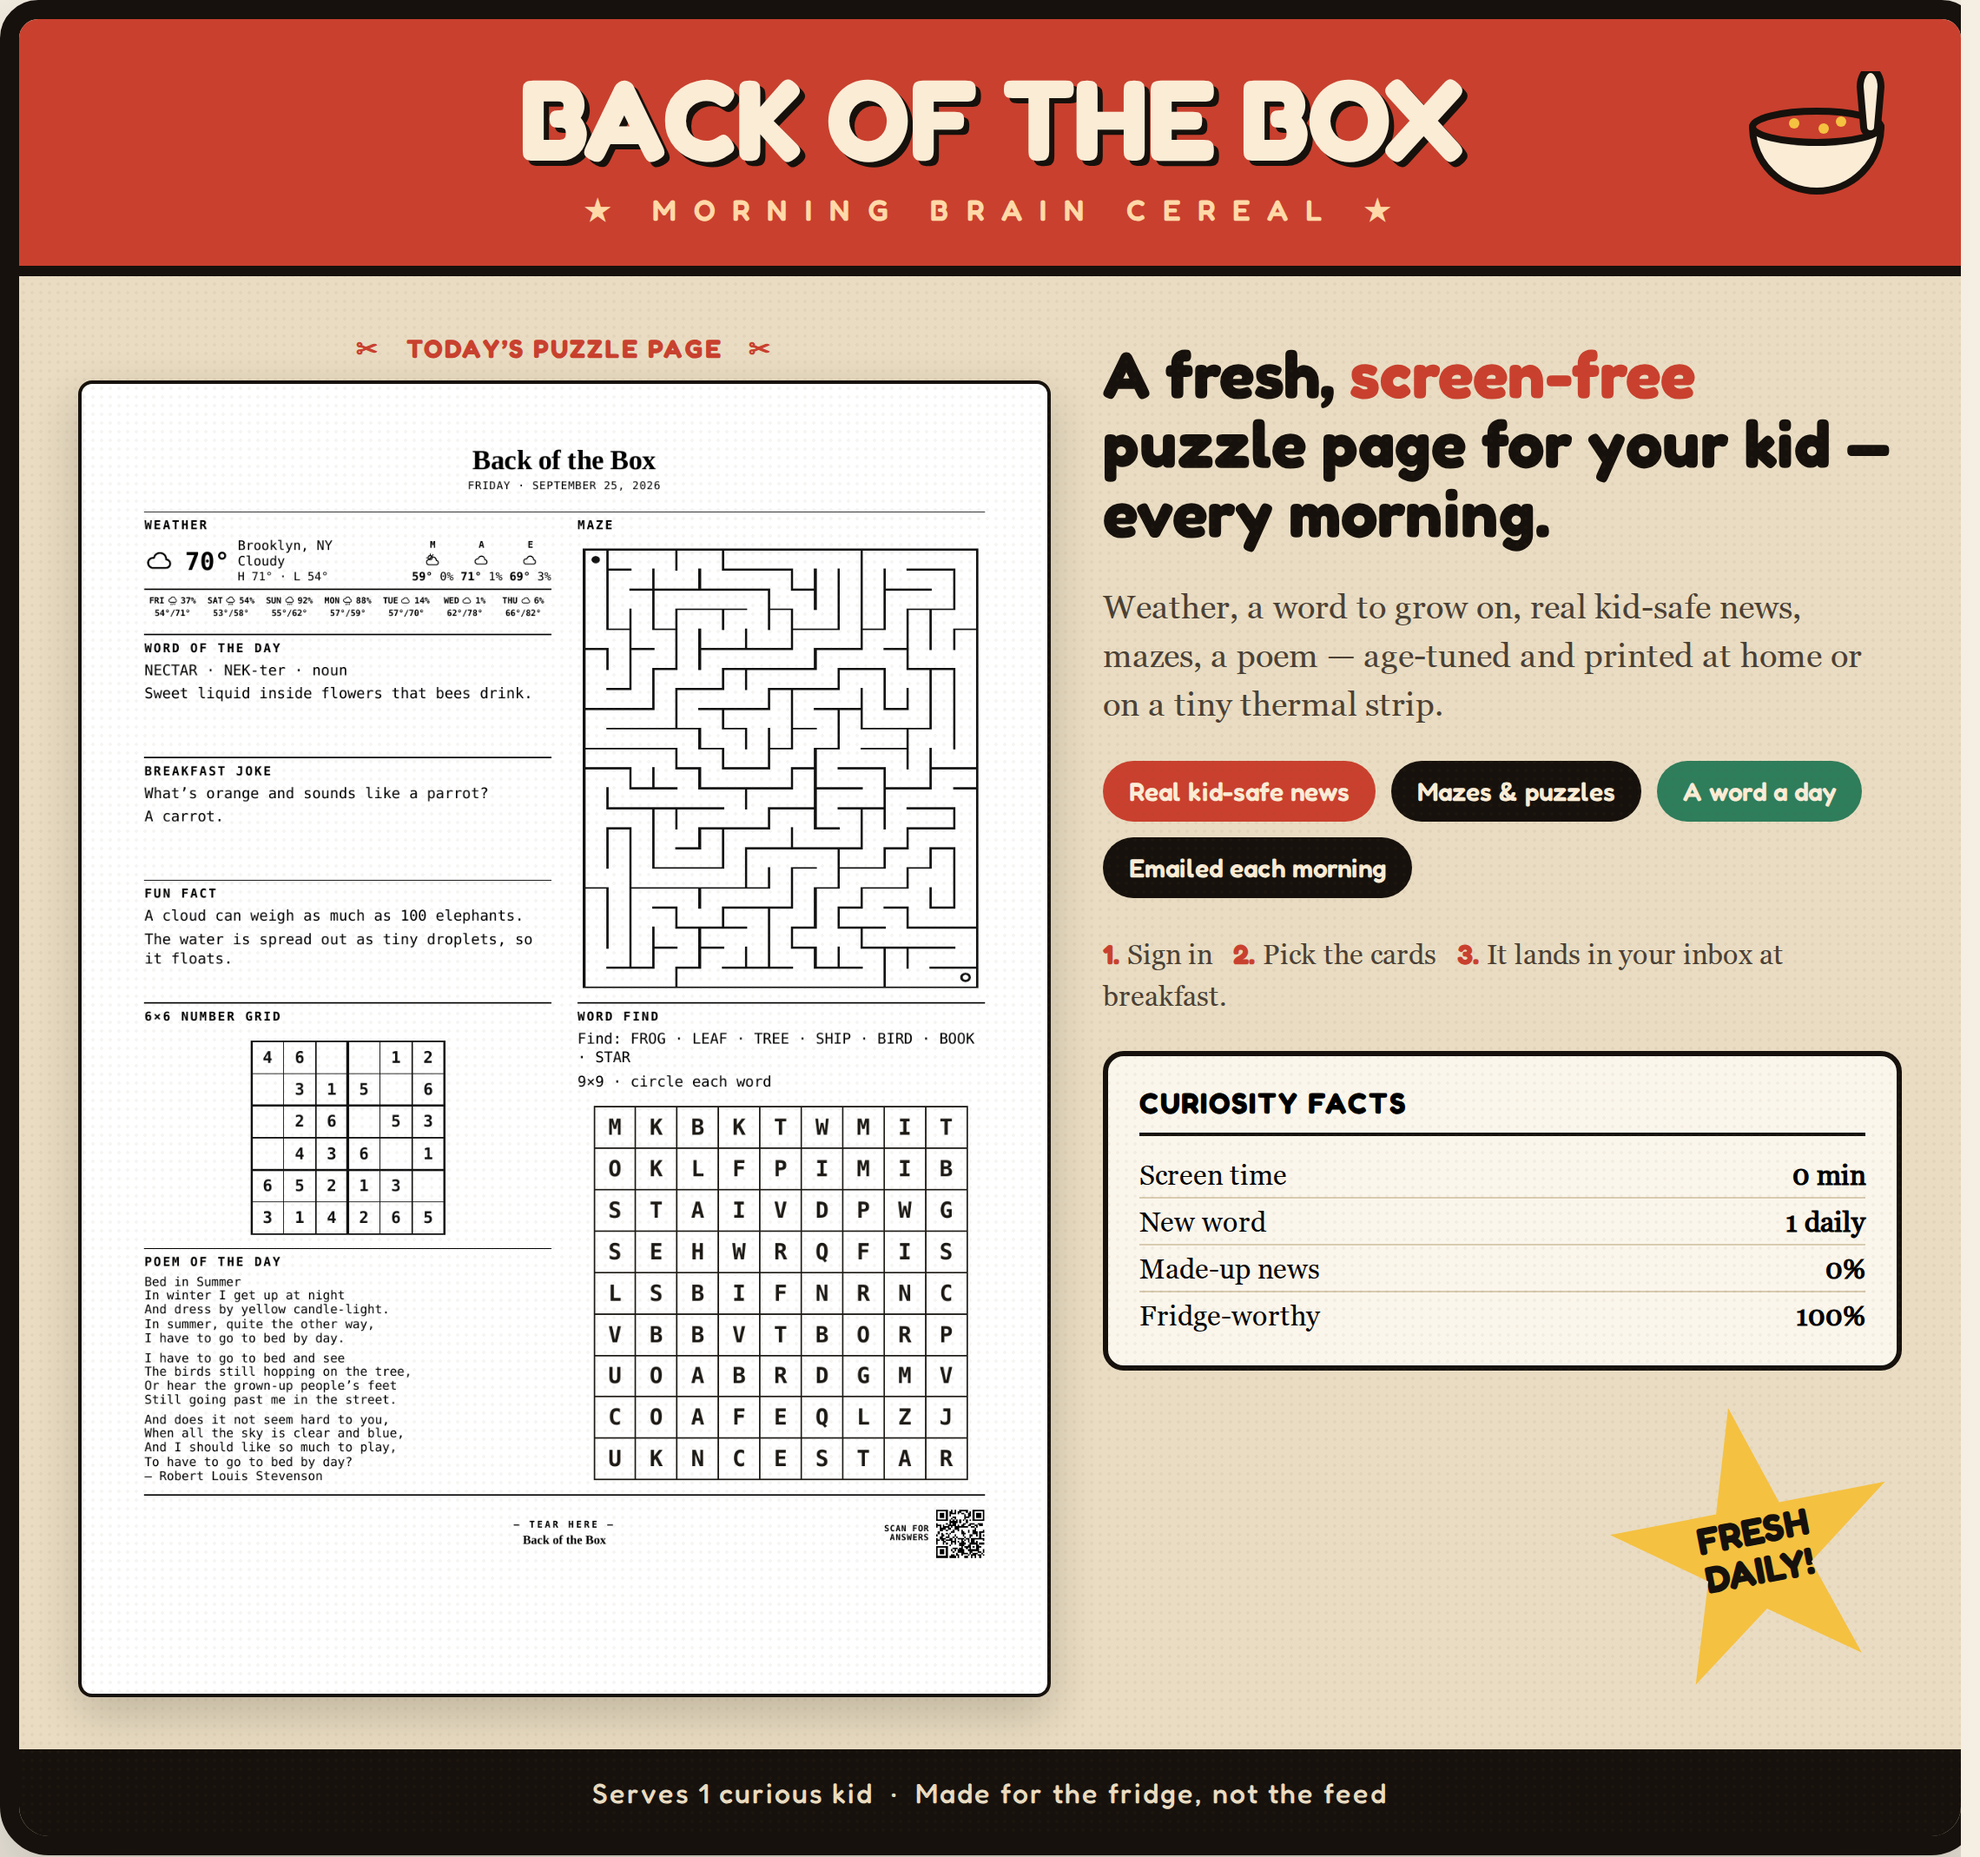
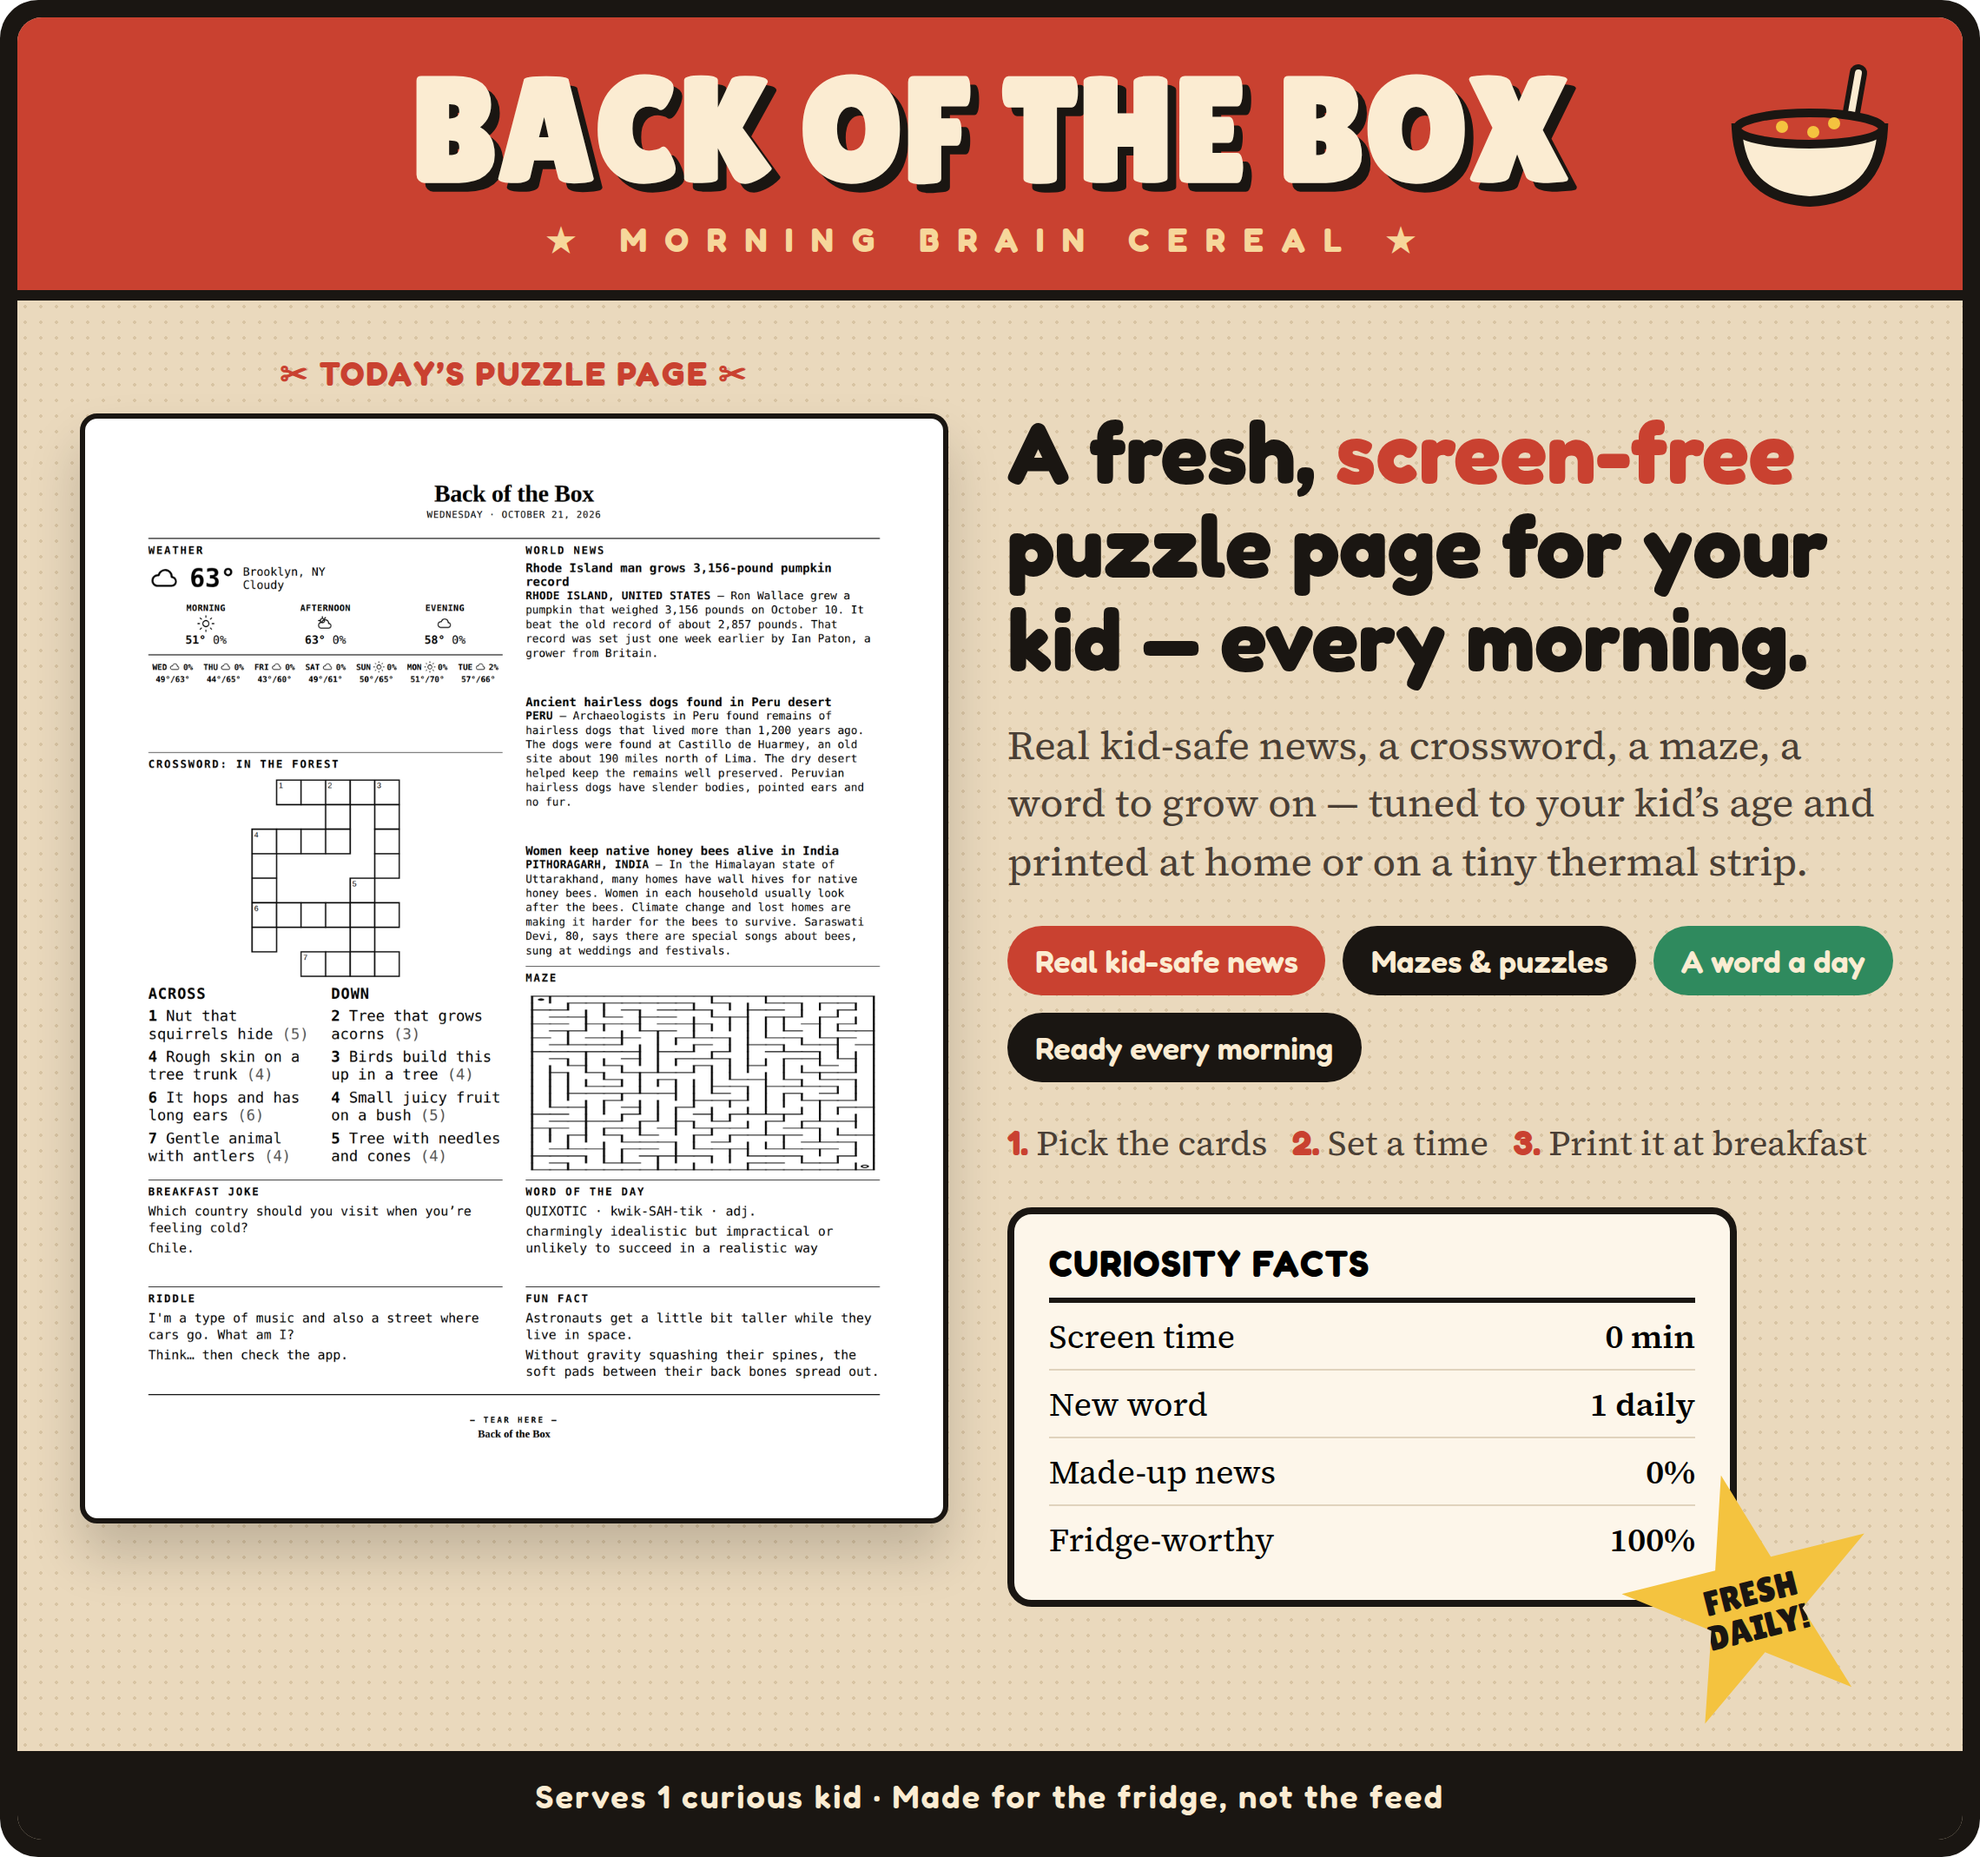
fix(mobile): dashboard button in home header, no horizontal overflow, refreshed hero
- Home header: signed-in users get a Dashboard button on every screen size;
  signed-out mobile shows Sign in + Demo
- Home hero/sample grids and the edit-dispatch form no longer overflow at 390px
- Cereal-box hero rebuilt from today's real page with current copy
  (pick cards, set a time, print — no 'sign in' step, not email-only)
- 'up to eight cards' claim corrected (cards come in three sizes)

diff --git a/src/app/page.tsx b/src/app/page.tsx
@@ -1,5 +1,5 @@
 import Link from "next/link";
-import { AuthButton } from "@/components/AuthButton";
+import { HomeHeaderActions } from "@/components/HomeHeaderActions";
 import { MODULE_CATALOG, MODULE_CATEGORIES } from "@/lib/modules";
 import { getHiddenModules } from "@/lib/visibility";
 
@@ -71,25 +71,11 @@ export default async function HomePage() {
           </span>
           <span className="masthead-display whitespace-nowrap text-lg sm:text-xl">Back of the Box</span>
         </Link>
-        <div className="flex shrink-0 items-center gap-3">
-          <Link
-            href="/modules"
-            className="hidden whitespace-nowrap text-sm font-semibold text-ink-soft hover:text-ink sm:inline"
-          >
-            Modules
-          </Link>
-          <AuthButton compact />
-          <Link
-            href="/app"
-            className="hidden whitespace-nowrap text-sm font-semibold text-ink-soft hover:text-ink sm:inline"
-          >
-            Open dashboard →
-          </Link>
-        </div>
+        <HomeHeaderActions />
       </header>
 
       <section className="border-y border-rule/50">
-        <div className="mx-auto grid max-w-6xl gap-10 px-4 py-12 sm:py-16 lg:grid-cols-[0.92fr_1.08fr] lg:items-center">
+        <div className="mx-auto grid max-w-6xl grid-cols-1 gap-10 px-4 py-12 sm:py-16 lg:grid-cols-[0.92fr_1.08fr] lg:items-center">
           <div>
             <p className="text-xs font-bold uppercase tracking-[0.22em] text-stamp">
               Morning ritual · screen-free
@@ -119,7 +105,7 @@ export default async function HomePage() {
             {/* eslint-disable-next-line @next/next/no-img-element */}
             <img
               src="/cereal-box.png"
-              alt="A sample Back of the Box dispatch printed on the back of a cereal box"
+              alt="Back of the Box, morning brain cereal: today’s puzzle page with weather, kid-safe news, a crossword and a maze"
               className="w-full drop-shadow-2xl"
             />
           </div>
@@ -127,7 +113,7 @@ export default async function HomePage() {
       </section>
 
       <section id="sample" className="mx-auto max-w-6xl scroll-mt-6 px-4 py-16">
-        <div className="grid gap-10 lg:grid-cols-[1fr_0.85fr] lg:items-center">
+        <div className="grid grid-cols-1 gap-10 lg:grid-cols-[1fr_0.85fr] lg:items-center">
           <div className="order-2 mx-auto w-full max-w-[480px] lg:order-1">
             {/* eslint-disable-next-line @next/next/no-img-element */}
             <img
@@ -165,8 +151,8 @@ export default async function HomePage() {
                 {visible.length} cards to build with
               </h2>
               <p className="mt-2 max-w-2xl text-ink-soft">
-                Mix and match up to eight cards on a page. One card can also rotate through a few
-                modules, like sudoku one day and battleship the next.
+                Mix and match cards in three sizes, from a quick joke to a big crossword. One card
+                can also rotate through a few modules, like sudoku one day and battleship the next.
               </p>
             </div>
             <Link href="/modules" className="text-sm font-semibold text-ink underline-offset-4 hover:underline">

diff --git a/src/components/HomeHeaderActions.tsx b/src/components/HomeHeaderActions.tsx
@@ -1,0 +1,47 @@
+"use client";
+
+import Link from "next/link";
+import { useSession } from "next-auth/react";
+import { AuthButton } from "./AuthButton";
+
+/**
+ * Home-page header actions. Signed in: a clear Dashboard button (no sign-out
+ * clutter on the landing page). Signed out: Sign in + a dashboard peek.
+ */
+export function HomeHeaderActions() {
+  const { data: session, status } = useSession();
+  const signedIn = status === "authenticated" && !!session?.user;
+  return (
+    <div className="flex shrink-0 items-center gap-3">
+      <Link
+        href="/modules"
+        className="hidden whitespace-nowrap text-sm font-semibold text-ink-soft hover:text-ink sm:inline"
+      >
+        Modules
+      </Link>
+      {signedIn ? (
+        <Link
+          href="/app"
+          className="flex items-center gap-2 whitespace-nowrap rounded-full bg-ink px-3.5 py-1.5 text-sm font-semibold text-cream transition hover:bg-ink/85"
+        >
+          {session.user?.image ? (
+            // eslint-disable-next-line @next/next/no-img-element
+            <img src={session.user.image} alt="" className="h-5 w-5 rounded-full" />
+          ) : null}
+          Dashboard →
+        </Link>
+      ) : (
+        <>
+          <AuthButton compact />
+          <Link
+            href="/app"
+            className="whitespace-nowrap text-sm font-semibold text-ink-soft hover:text-ink"
+          >
+            <span className="sm:hidden">Demo →</span>
+            <span className="hidden sm:inline">Open dashboard →</span>
+          </Link>
+        </>
+      )}
+    </div>
+  );
+}

diff --git a/src/app/globals.css b/src/app/globals.css
@@ -130,7 +130,7 @@ button:disabled { cursor: not-allowed; }
   padding: 1.1rem 1.2rem;
 }
 
-.field { display: flex; flex-direction: column; gap: 0.35rem; }
+.field { display: flex; flex-direction: column; gap: 0.35rem; min-width: 0; }
 .field label {
   font-size: 0.8rem;
   font-weight: 600;
@@ -145,6 +145,8 @@ button:disabled { cursor: not-allowed; }
   padding: 0.7rem 0.85rem;
   color: var(--ink);
   outline: none;
+  min-width: 0;
+  max-width: 100%;
 }
 .field input:focus, .field select:focus, .field textarea:focus {
   border-color: var(--stamp);

diff --git a/src/app/app/modules/page.tsx b/src/app/app/modules/page.tsx
@@ -218,7 +218,7 @@ export default function EditDispatchPage() {
           </div>
         </div>
 
-        <div className="grid gap-4 sm:grid-cols-2">
+        <div className="grid grid-cols-1 gap-4 sm:grid-cols-2">
           <div className="field">
             <label htmlFor="dt">Delivery time</label>
             <input id="dt" type="time" value={deliveryTime} onChange={(e) => setDeliveryTime(e.target.value)} />
